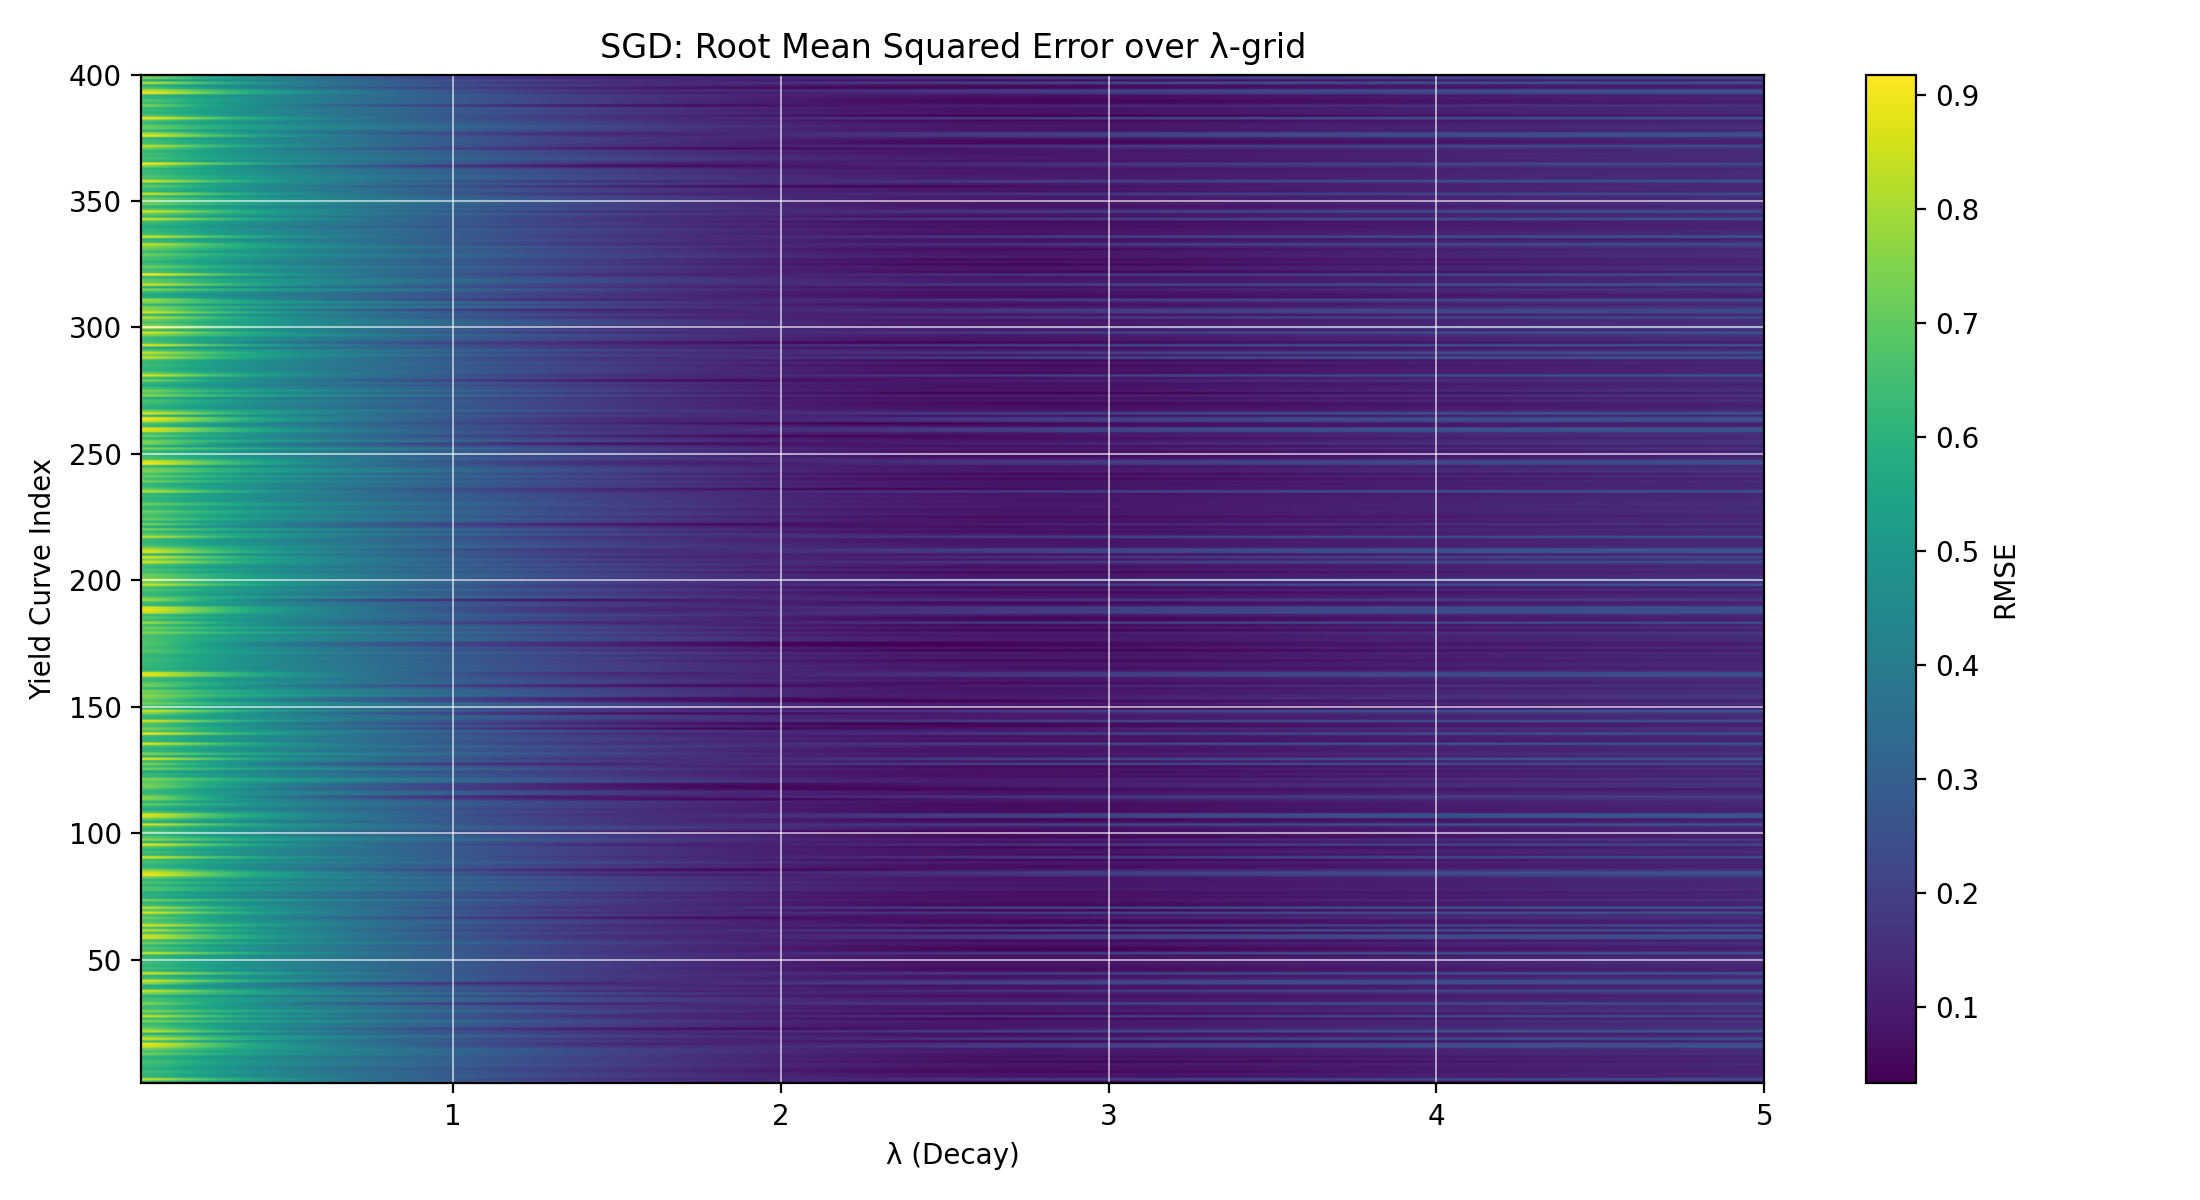
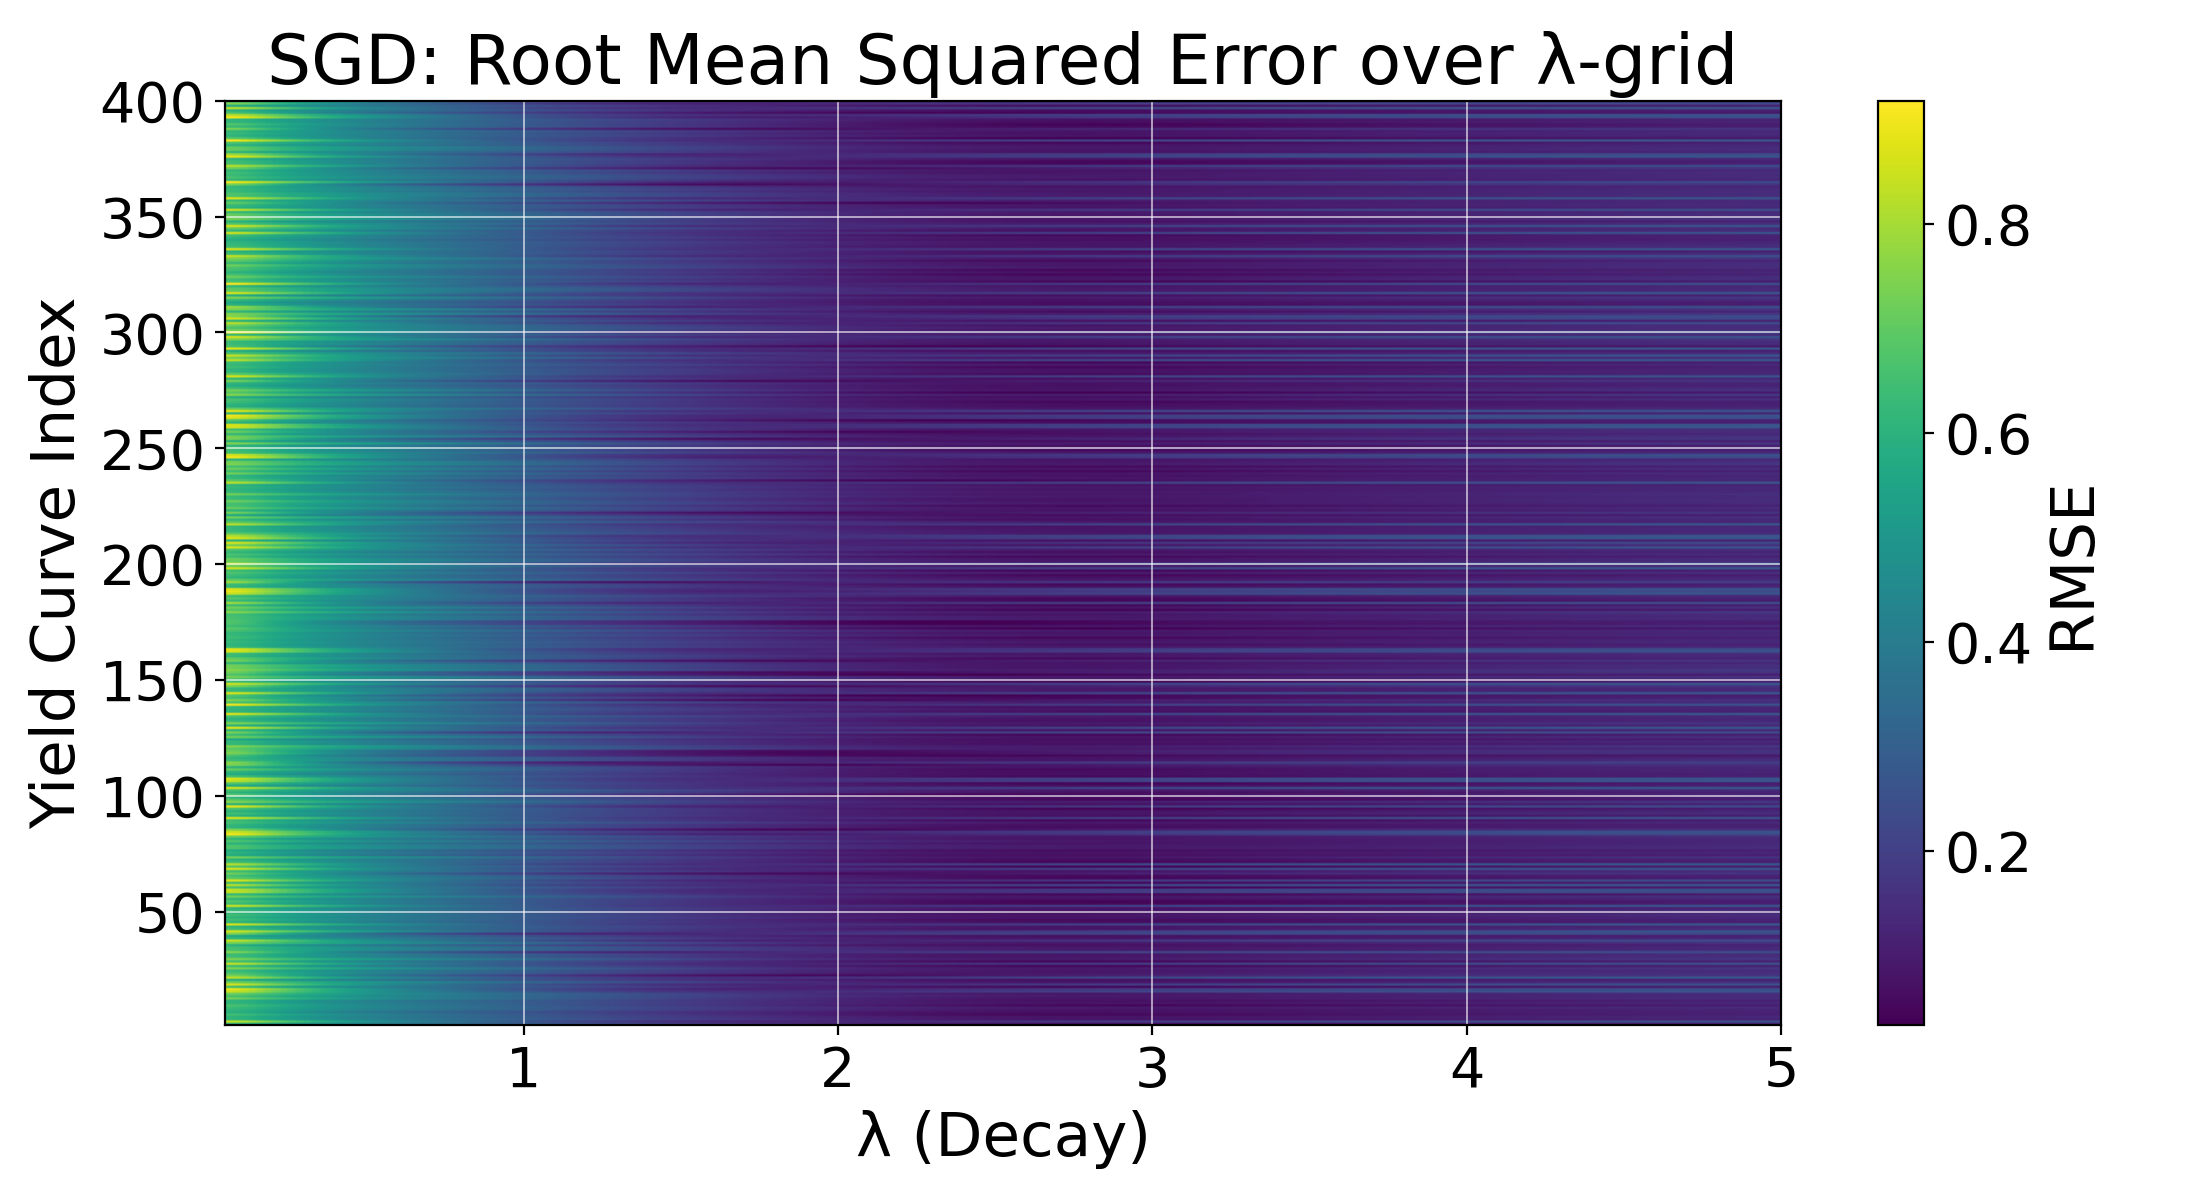
new plots

Changed region(s): [[0.0, 0.0308, 0.9582, 0.9867]]

diff --git a/Chapter 2/parametric_models/yplot_ns_grid_search.py b/Chapter 2/parametric_models/yplot_ns_grid_search.py
@@ -28,13 +28,23 @@ def yield_curves_plot(maturities_years, fitted_curves, rmse_values, title, save_
     x_max = float(np.nanmax(maturities_years))
     x_grid = np.linspace(x_min, x_max, 300)
 
-    fig, ax = plt.subplots(figsize=(12, 5))
+    DPI = 100
+    W_IN = 1573 / DPI
+    H_IN = 750  / DPI
+    fig, ax = plt.subplots(figsize=(W_IN, H_IN), dpi=DPI)
     for curve in fitted_curves:
         ax.plot(x_grid, curve(x_grid), linewidth=0.8)
 
-    ax.set_xlabel("Maturity (Years)", fontsize=14)
-    ax.set_ylabel("Interest Rate (%)", fontsize=14)
-    ax.set_title(title, fontsize=24, fontweight="bold", pad=12)
+    TICK_FS = 27
+    ax.tick_params(axis="both", which="major", labelsize=TICK_FS)
+    ax.tick_params(axis="both", which="minor", labelsize=TICK_FS)
+    
+    ax.xaxis.get_offset_text().set_size(TICK_FS)
+    ax.yaxis.get_offset_text().set_size(TICK_FS)
+    
+    ax.set_xlabel("Maturity (Years)", fontsize=32)
+    ax.set_ylabel("Interest Rate (%)", fontsize=32)
+    ax.set_title(title, fontsize=37, fontweight="bold", pad=12)
     ax.set_ylim(-2, 10)
     ax.set_xlim(left=0, right=x_max)
 
@@ -42,14 +52,14 @@ def yield_curves_plot(maturities_years, fitted_curves, rmse_values, title, save_
     info = (
         r"• Nelson-Siegel Fit"
         "\n"
-        f"• Grid Search; $\lambda \in [{lambd_lo:.2f},{lambd_upp:.2f}],\ n={n_grid}$"
+        f"• Grid Search; $\lambda_i \in [{lambd_lo:.2f},{lambd_upp:.2f}]$"
         "\n"
         f"• Avg. RMSE = {avg_rmse:.4f}"
     )
     ax.text(
-        0.61, 0.75, info,
+        0.58, 0.75, info,
         transform=ax.transAxes,
-        fontsize=14,
+        fontsize=25,
         bbox=dict(boxstyle="square", facecolor="white", edgecolor="red", linewidth=1.5)
     )
 
@@ -79,11 +89,15 @@ def plot_rmse_heatmap(lambds: np.ndarray, err_mat: np.ndarray, title: str, save_
         origin="lower",
         extent=[lambds[0], lambds[-1], 1, err_mat.shape[0]]
     )
-    ax.set_xlabel("λ (Decay)")
-    ax.set_ylabel("Yield Curve Index")
-    ax.set_title(f"{title}: Root Mean Squared Error over λ-grid")
+    ax.set_xlabel("λ (Decay)", fontsize=22)
+    ax.set_ylabel("Yield Curve Index", fontsize=22)
+    ax.set_title(f"{title}: Root Mean Squared Error over λ-grid", fontsize=25)
+    ax.tick_params(axis="both", which="both", labelsize=20)
+    
     cbar = plt.colorbar(im, ax=ax)
-    cbar.set_label("RMSE")
+    cbar.set_label("RMSE", fontsize=22)
+    cbar.ax.tick_params(labelsize=20)
+    
     ax.grid(True, color="white", alpha=0.6, linewidth=0.7)
     fig.tight_layout()
     plt.savefig(save_path, dpi=200)
